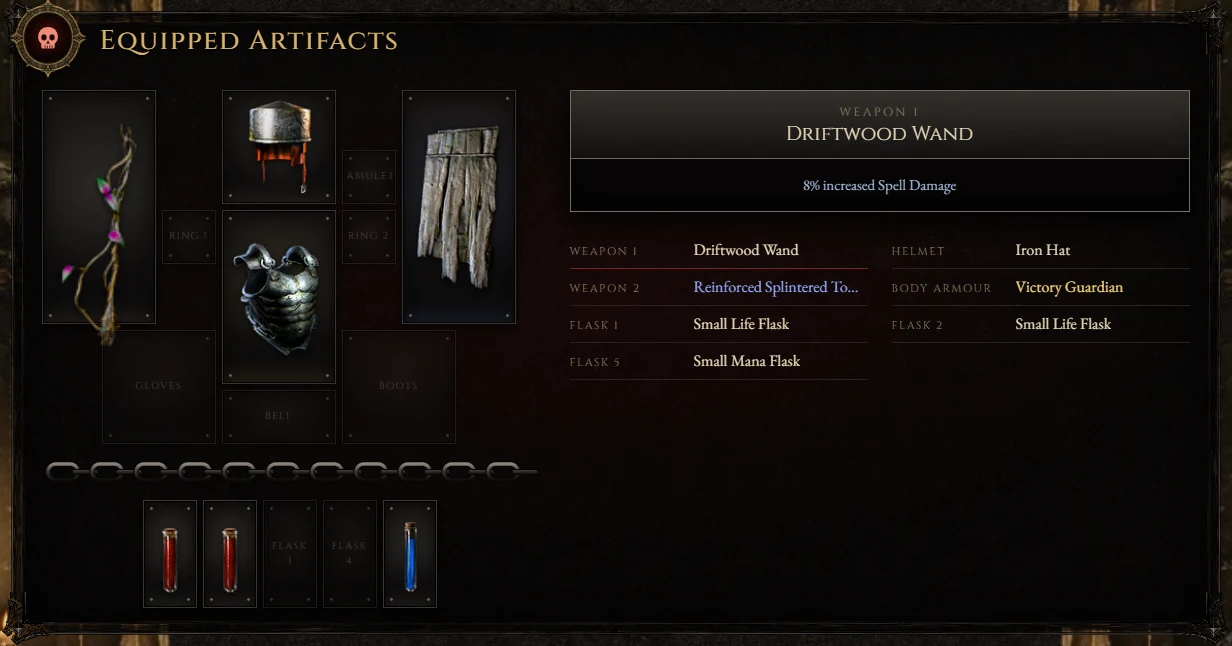
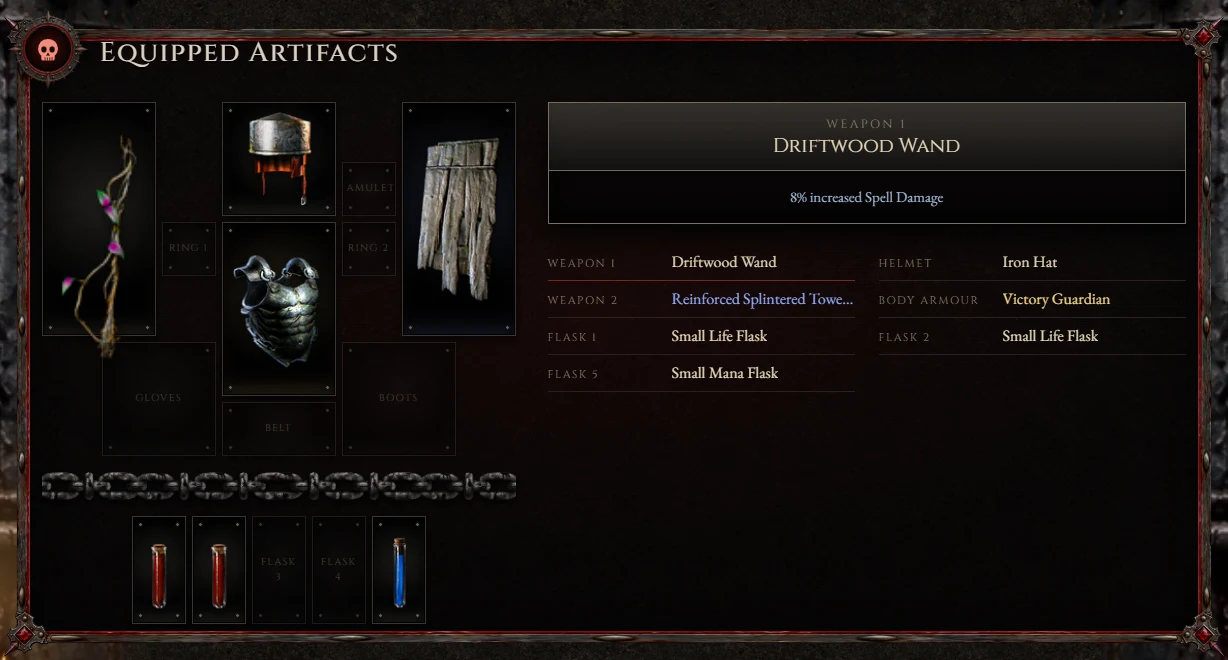
perf: rest endless animations while the window is in the background [skip ci]
- The candle flicker, the only endless animation, now pauses whenever the
  window is not focused, so the app costs no CPU behind the game (measured
  0.91% -> 0.05% of the CPU), and its glows animate on their own layer.
- README screenshot of the armoury in the new style.

Verified on the final portable build from an empty folder: the engine
unpacks on first launch, the saved character and the guide comparison load,
the iron art, chain and GitHub link are in place, every page settles fully
visible, and passive and Atlas icons are read from the installed game.

diff --git a/frontend/frontend/src/layouts/ArchiveShell.tsx b/frontend/frontend/src/layouts/ArchiveShell.tsx
@@ -1,4 +1,4 @@
-import type { ReactNode } from "react";
+import { useEffect, type ReactNode } from "react";
 import AtlasBackground from "../components/AtlasBackground";
 import AtlasFrame from "../components/AtlasFrame";
 import AtlasScene from "../components/AtlasScene";
@@ -50,8 +50,31 @@ interface ArchiveShellProps {
   children: ReactNode;
 }
 
+/**
+ * Marks the page idle while its window is not focused, so endless decorative
+ * animations stop costing CPU when the app sits behind the game.
+ */
+function useIdleWhenUnfocused() {
+  useEffect(() => {
+    const root = document.documentElement;
+    const update = () => {
+      if (document.hasFocus()) delete root.dataset.idle;
+      else root.dataset.idle = "";
+    };
+    update();
+    window.addEventListener("focus", update);
+    window.addEventListener("blur", update);
+    return () => {
+      window.removeEventListener("focus", update);
+      window.removeEventListener("blur", update);
+      delete root.dataset.idle;
+    };
+  }, []);
+}
+
 /** The archive around every page: background, desk scene, outer frame and title bar. */
 function ArchiveShell({ page, onNavigate, children }: ArchiveShellProps) {
+  useIdleWhenUnfocused();
   return (
     <div className="relative isolate min-h-screen overflow-hidden px-2 py-3 sm:px-4">
       <AtlasBackground />

diff --git a/frontend/frontend/src/index.css b/frontend/frontend/src/index.css
@@ -176,6 +176,12 @@ body {
 @media (prefers-reduced-motion: no-preference) {
   .candle-flicker {
     animation: flicker 4s ease-in-out infinite;
+    /* Its own compositor layer: the flicker changes opacity without repainting the scene. */
+    will-change: opacity;
+  }
+  /* Endless animations rest while the window is in the background (e.g. during play). */
+  :root[data-idle] .candle-flicker {
+    animation-play-state: paused;
   }
 }
 
